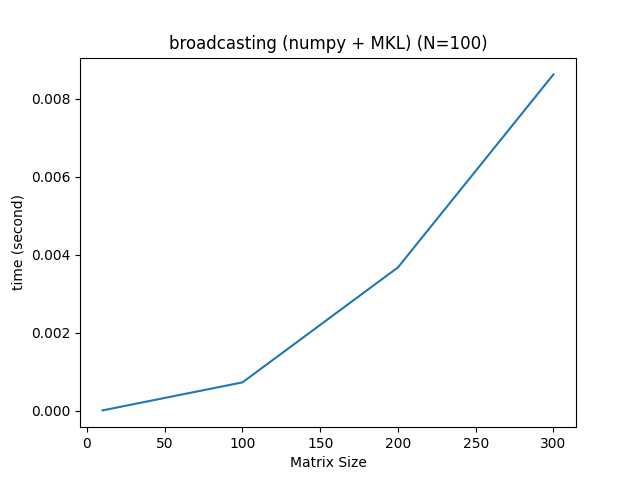
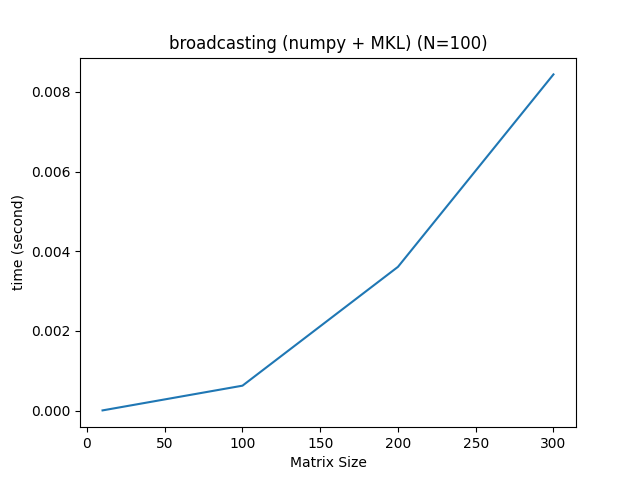
python: slicing tensor must create copy

diff --git a/benchmark/numpy_benchmark.py b/benchmark/numpy_benchmark.py
@@ -70,7 +70,7 @@ def slicing_bench(K):
 
     def run_test():
         t1 = time()
-        _ = a[:, 200:400]
+        _ = a[:, 200:400].copy()
         t2 = time()
         return t2 - t1
     return [run_test() for i in range(N)]
